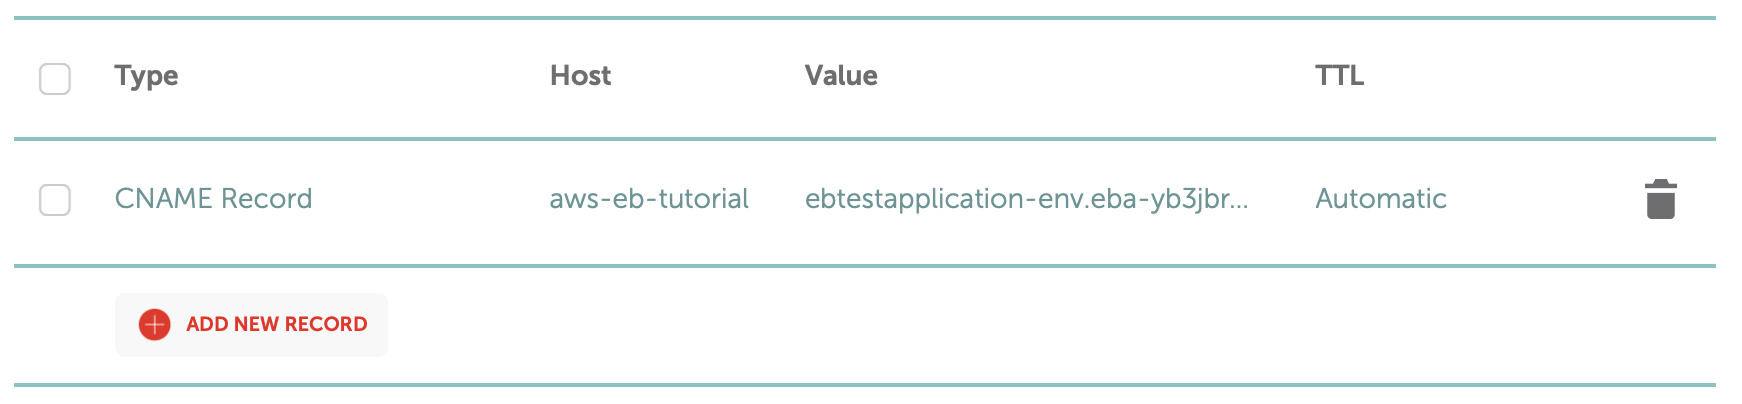
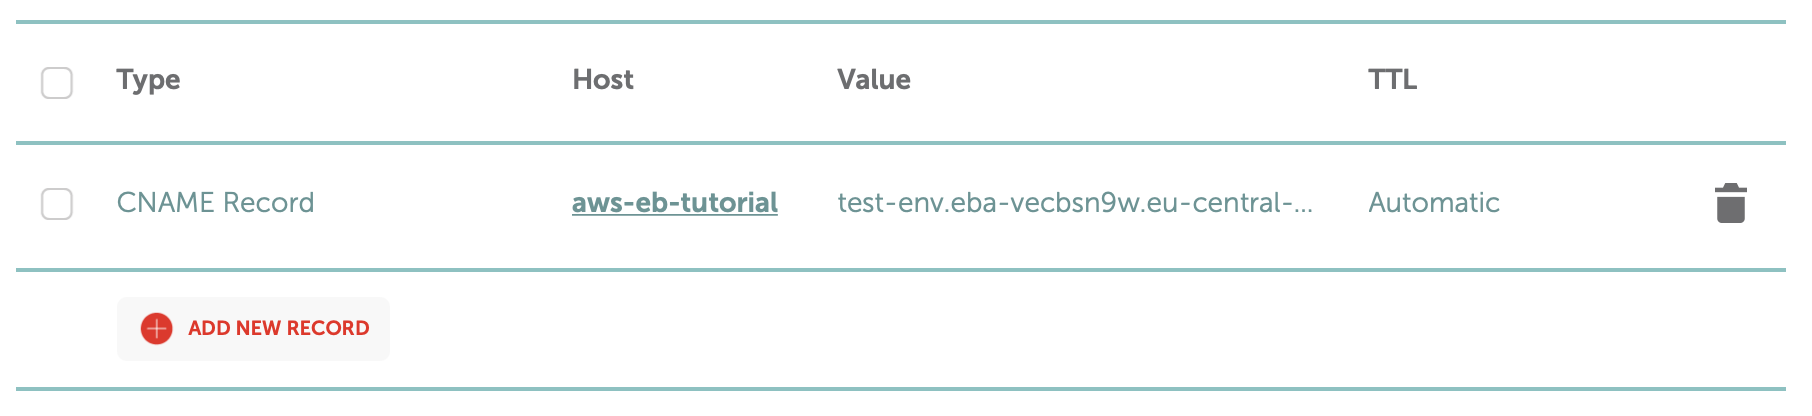
Finish blog post

diff --git a/content/posts/aws-eb-production-setup-tutorial.md b/content/posts/aws-eb-production-setup-tutorial.md
@@ -1,58 +1,65 @@
 ---
-title: "Get Your Service Production-Ready on AWS Free Tier — A Step-By-Step Guide"
-date: 2021-04-25T18:03:35+02:00
-draft: true
+title: "Launch Your API on AWS Free Tier — A Step-By-Step Guide"
+date: 2021-06-08T18:03:35+02:00
 ---
 
-Recently, I was setting up a simple backend service for my favorite party game [Ryggio](http://rygg.io) on AWS.
-To my surprise, a comprehensive[^1] guide was missing—which motivated my attempt to create one.
+Recently, I was trying to deploy a backend API for my favorite party game [Ryggio](http://rygg.io) on Amazon Web Services (AWS).
+To my surprise, a comprehensive[^1] deployment guide was missing—which motivated this attempt to create one.
+
+This guide attempts to include everything for your API to be **production-ready**, including:
+* Basic configuration of Amazon Elastic Beanstalk
+* How to use a custom domain
+* Securing your API using TLS encryption (HTTPS)
+
+The best of all this: Apart from the domain, you can get all of this for free[^4] using [AWS Free Tier](https://aws.amazon.com/free/?all-free-tier.sort-by=item.additionalFields.SortRank&all-free-tier.sort-order=asc&awsf.Free%20Tier%20Types=*all&awsf.Free%20Tier%20Categories=*all).
 
 ## The Setup
 
-We will be using the following tools to deploy our app on [AWS Free Tier](https://aws.amazon.com/free/?all-free-tier.sort-by=item.additionalFields.SortRank&all-free-tier.sort-order=asc&awsf.Free%20Tier%20Types=*all&awsf.Free%20Tier%20Categories=*all):
+We will be using the following tools to deploy our app:
 
-* Docker to package our application
-* AWS Elastic Beanstalk with a **single instance deployment** on Amazon Linux 2
-* Let's Encrypt for generating a certificate
-* Amazon S3 for storing the certificate data
-* Namecheap for configuring our custom domain (of course, any provider will do)
+* Docker, for packaging our application;
+* AWS Elastic Beanstalk with a **single instance deployment** on Amazon Linux 2;
+* Let's Encrypt for generating a certificate;
+* Namecheap for configuring our custom domain (of course, any provider will do).
 
-## Step 1: Dockerize Your Project
+## Step 0: Dockerize Your Project
 
 To follow this guide, it's easiest if your project comes with a `Dockerfile`. This is unfortunately out of scope for this guide. If you just want to follow the tutorial for fun, please check out my [example project](https://github.com/ppati000/aws-eb-docker-example)! The repository contains all the files you need to get started.
 
-## Step 2: Set Up AWS Elastic Beanstalk
+## Step 1: Set Up AWS Elastic Beanstalk
 
-Getting our app up and running is fairly easy. Here's what you will need to do:
+Getting our app up and running is not terribly complicated, but it does involve quite a few sub-steps. Here's what you will need to do:
 
-1. Create a zip file containing your entire project. Make sure the `Dockerfile` is on the top directory level (i.e. don't zip the project folder, but the files inside it).
-2. Go to [Elastic Beanstalk](https://eu-central-1.console.aws.amazon.com/elasticbeanstalk/home?region=eu-central-1#/welcome) and click on "Create Application".
-3. Enter a project name and select Docker as platform. As platform branch, make sure to choose **Docker running on 64bit Amazon Linux 2**. Note that if you choose Amazon Linux 1, some stuff in this guide may not work.
-4. Select "Upload your code" and upload your previously created zip file. Then add any text as version label, e.g. "Version 1".
-5. Click on "Configure more options" on the bottom of the page. Then, select **Single instance (Free Tier eligible)**. This is the most appropriate option for a low-traffic application. And don't worry, you will be able to change this later.
-6. That's it! Click on "Create application" on the bottom of the page. Then wait a few minutes for everything to be set up—you'll be redirected to your app's status page automatically.
+1. Create a zip file which contains your entire project. Make sure the `Dockerfile` is in the top-level directory (i.e., don't zip the project folder, but the files inside it).
+2. Go to [Elastic Beanstalk](https://eu-central-1.console.aws.amazon.com/elasticbeanstalk/home?region=eu-central-1#/welcome) and click on *Create Application*.
+3. Enter an application name. 
+4. Select **Docker** as your platform. 
+5. For platform branch, make sure to choose **Docker running on 64bit Amazon Linux 2**. Note that if you choose Amazon Linux 1, some stuff in this guide may not work.
+6. Select *Upload your code* and upload your project zip file from Step 1. 
+7. Click on *Configure more options* on the bottom of the page. Then, select **Single instance (Free Tier eligible)**. This is an appropriate option for a very low-traffic application which doesn't need a load balancer. (Don't worry, you will be able to change this later.)
+8. That's it! Click on *Create app* on the bottom of the page. Then wait a few minutes for everything to be set up—you'll be redirected to your app's status page automatically.
 
-This is approximately what you'll be seeing after completing Step 2:
+This is approximately what you'll be seeing after completing the above list of actions:
 
 ![The Amazon Elastic Beanstalk status page is showing us that everything is up and running.](/posts/aws-eb-production-setup-tutorial/statusPage.png)
 
 Well, that was easy! So what's missing now?
 
-* Our app is still running on some cryptic URL like `http://ebtestapplication-env.eba-yb3jbrc5.eu-central-1.elasticbeanstalk.com`. We'll want to use our own domain instead.
-* We will need to set up HTTPS / TLS encryption so that people can access our service securely. Nowadays, this is a [must](https://www.cloudflare.com/es-es/learning/ssl/why-use-https/) for any application used by anyone other than yourself.
+* Our app is still running on some cryptic URL like `http://test-env.eba-vecbsn9w.eu-central-1.elasticbeanstalk.com`. We'll want to use our own domain instead.
+* We will need to set up HTTPS / TLS encryption so that people can access our API securely. Nowadays, this is a [must](https://www.cloudflare.com/es-es/learning/ssl/why-use-https/) for any production-ready application.
 
-The following steps will cover just that.
+Follow the remaining steps to fix those two issues.
 
-## Step 3: Set Up a Custom Domain
+## Step 2: Set Up a Custom Domain
 
-This step is done using your domain provider's admin page.
+In order to use a custom domain for your API, you'll need to navigate to your domain provider's admin page.
 This guide uses Namecheap, but any other provider will have a similar interface.
 
 In Namecheap, select the domain name you would like to use and navigate to *Advanced DNS*. Add a new record with the following properties:
 
 * Type: `CNAME`
 * Host: `@` if you want to use the top level domain, or the name of your subdomain, e.g. `api` if you want to use `api.your-domain.org`. For this example we'll use `aws-eb-tutorial`, so our server will be available at `aws-eb-tutorial.patrick.engineering`.
-* Target: Enter your app's Elastic Beanstalk domain, e.g. `ebtestapplication-env.eba-yb3jbrc5.eu-central-1.elasticbeanstalk.com`.
+* Target: Enter your app's Elastic Beanstalk domain, e.g. `test-env.eba-vecbsn9w.eu-central-1.elasticbeanstalk.com`.
 
 Here's what it will look like when saved:
 
@@ -60,7 +67,114 @@ Here's what it will look like when saved:
 
 Nice! After a few minutes[^2], the example app is reachable at `http://aws-eb-tutorial.patrick.engineering`!
 
-## Step 4: Configure TLS Encryption
+## Step 3: Configure TLS Encryption
+
+Congratulations! Your API is up and running on your custom domain. Now to the final part: Configuring TLS encryption.
+This is a bit more complex. It's hard to cover all of it, so please follow [this excellent guide](https://medium.com/@hzburki/configure-ssl-certificate-elastic-beanstalk-single-instance-a2846211851b) on how to create a TLS certificate using Certbot. If you follow the guide, you will obtain three files: `chain.pem`, `server.key` and `server.crt`.
+
+When the certificate files have been created, you'll need to configure your project to make use of them.
+First, add the following HTTPS configuration content to `.platform/nginx/conf.d/https.conf` in your project directory. This will configure the environment's nginx proxy to work with HTTPS connections.
+
+```nginx
+# .platform/nginx/conf.d/https.conf
+server {
+    listen 443;
+    server_name localhost;
+
+    ssl on;
+    ssl_certificate /etc/pki/tls/certs/server.crt;
+    ssl_certificate_key /etc/pki/tls/certs/server.key;
+
+    ssl_session_timeout 5m;
+
+    ssl_protocols TLSv1 TLSv1.1 TLSv1.2;
+    ssl_prefer_server_ciphers on;
+
+    location / {
+        proxy_pass http://docker; # Forward requests to our container.
+        proxy_http_version 1.1;
+
+        proxy_set_header Connection "";
+        proxy_set_header Host $host;
+        proxy_set_header X-Real-IP $remote_addr;
+        proxy_set_header X-Forwarded-For $proxy_add_x_forwarded_for;
+        proxy_set_header X-Forwarded-Proto https;
+    }
+}
+```
+
+Notice how the above configuration points to the server's TLS certificate and private key in `/etc/pki/tls/certs/`.
+Next, we will instruct Elastic Beanstalk to provide the files in this directory. To do this, create a `.ebextensions/.config` file with the content given below. Of course, you will need to add the contents of your actual certificate files.
+
+**Note:** The certificate data must be kept private. Do **not** commit this file to your regular version control system[^3].
+
+```yaml
+# .ebextensions/.config
+# Partly taken from https://medium.com/@hzburki/configure-ssl-certificate-elastic-beanstalk-single-instance-a2846211851b.
+
+# Install the required mod_ssl dependency.
+packages:
+  yum:
+    mod_ssl : []
+
+# Provide the TLS files in /etc/pki/tls/certs/.
+files:
+  /etc/pki/tls/certs/server.crt:
+    mode: "000400"
+    owner: root
+    group: root
+    content: |
+      -----BEGIN CERTIFICATE-----
+      ...
+      -----END CERTIFICATE-----
+
+  /etc/pki/tls/certs/server.key:
+    mode: "000400"
+    owner: root
+    group: root
+    content: |
+      -----BEGIN PRIVATE KEY-----
+      ...
+      -----END PRIVATE KEY-----
+      
+  /etc/pki/tls/certs/chain.pem:
+    mode: "000400"
+    owner: root
+    group: root
+    content: |
+      -----BEGIN CERTIFICATE-----
+      ...
+      -----END CERTIFICATE-----
+      -----BEGIN CERTIFICATE-----
+      ...
+      -----END CERTIFICATE-----
+
+# Allow traffic to reach the instance via port 443.
+# See https://aws.amazon.com/es/premiumsupport/knowledge-center/elastic-beanstalk-https-configuration/.
+Resources:
+  sslSecurityGroupIngress:
+    Type: AWS::EC2::SecurityGroupIngress
+    Properties:
+      GroupId: {"Fn::GetAtt" : ["AWSEBSecurityGroup", "GroupId"]}
+      IpProtocol: tcp
+      ToPort: 443
+      FromPort: 443
+      CidrIp: 0.0.0.0/0
+```
+
+Finally, create a new zip archive of your project, including the newly created files! You can upload and deploy the new archive by navigating to *Application Versions* in Elastic Beanstalk.
+If you've followed this tutorial until here, this is the end result:
+
+![The API running on HTTPS and a custom domain.](/posts/aws-eb-production-setup-tutorial/tls.png)
+
+# Conclusion
+
+A production-ready API or application involves much more work than just getting it online.
+Especially TLS encryption is still somewhat difficult to set up if you're not used to infrastructure-related work.
+I hope this guide saved you some time---and hopefully very soon, you'll have your first API user!
+If you liked this tutorial, please feel free to follow me on [Twitter](https://twitter.com/ppati000) or [LinkedIn](https://www.linkedin.com/in/patrick-petrovic/). Enjoy!
 
 [^1]: A good, yet not entirely complete guide which this post is partly based on is available [here](https://medium.com/@hzburki/configure-ssl-certificate-elastic-beanstalk-single-instance-a2846211851b).
 [^2]: Well, that depends. If the app isn't reachable yet even though it runs fine using your Elastic Beanstalk URL, grind yourself some coffee and check back later.
+[^3]: In the [aforementioned guide](https://medium.com/@hzburki/configure-ssl-certificate-elastic-beanstalk-single-instance-a2846211851b), certificates are uploaded to S3 instead of including them in the project directory. This is more secure because it stops you from accidentally publishing your server's private keys on GitHub. However, access control between Elastic Beanstalk and S3 is hard to do right, which is why this approach is not covered here.
+[^4]: No guarantee here as this may depend on region and time---always make sure to check Amazon's pricing!s
